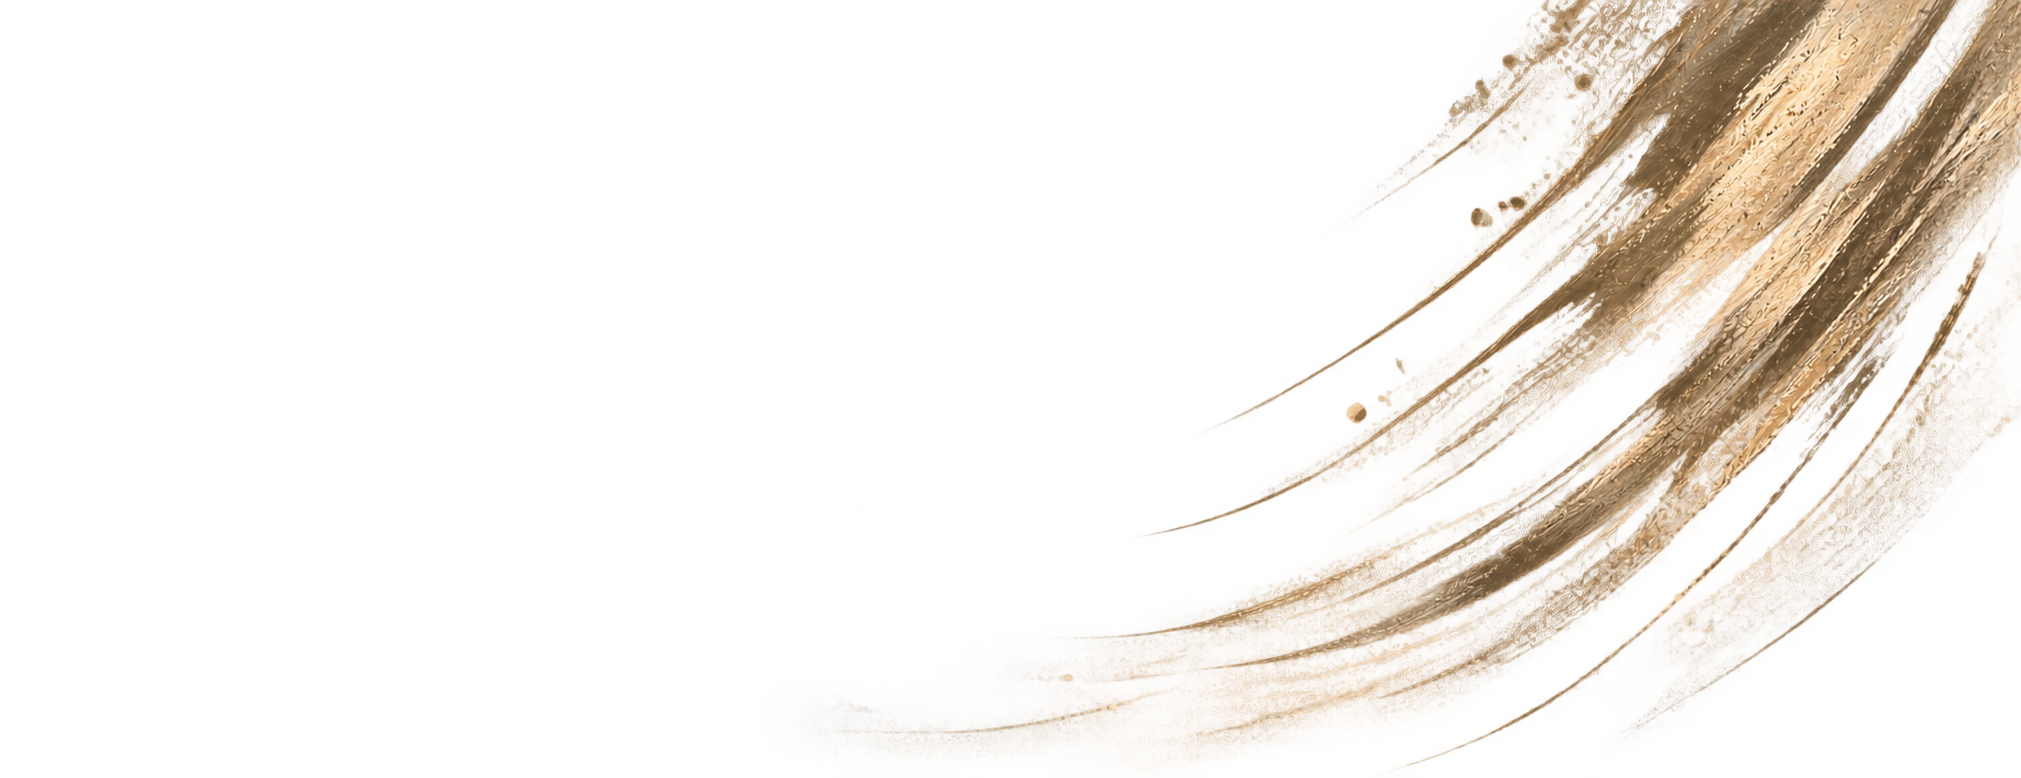
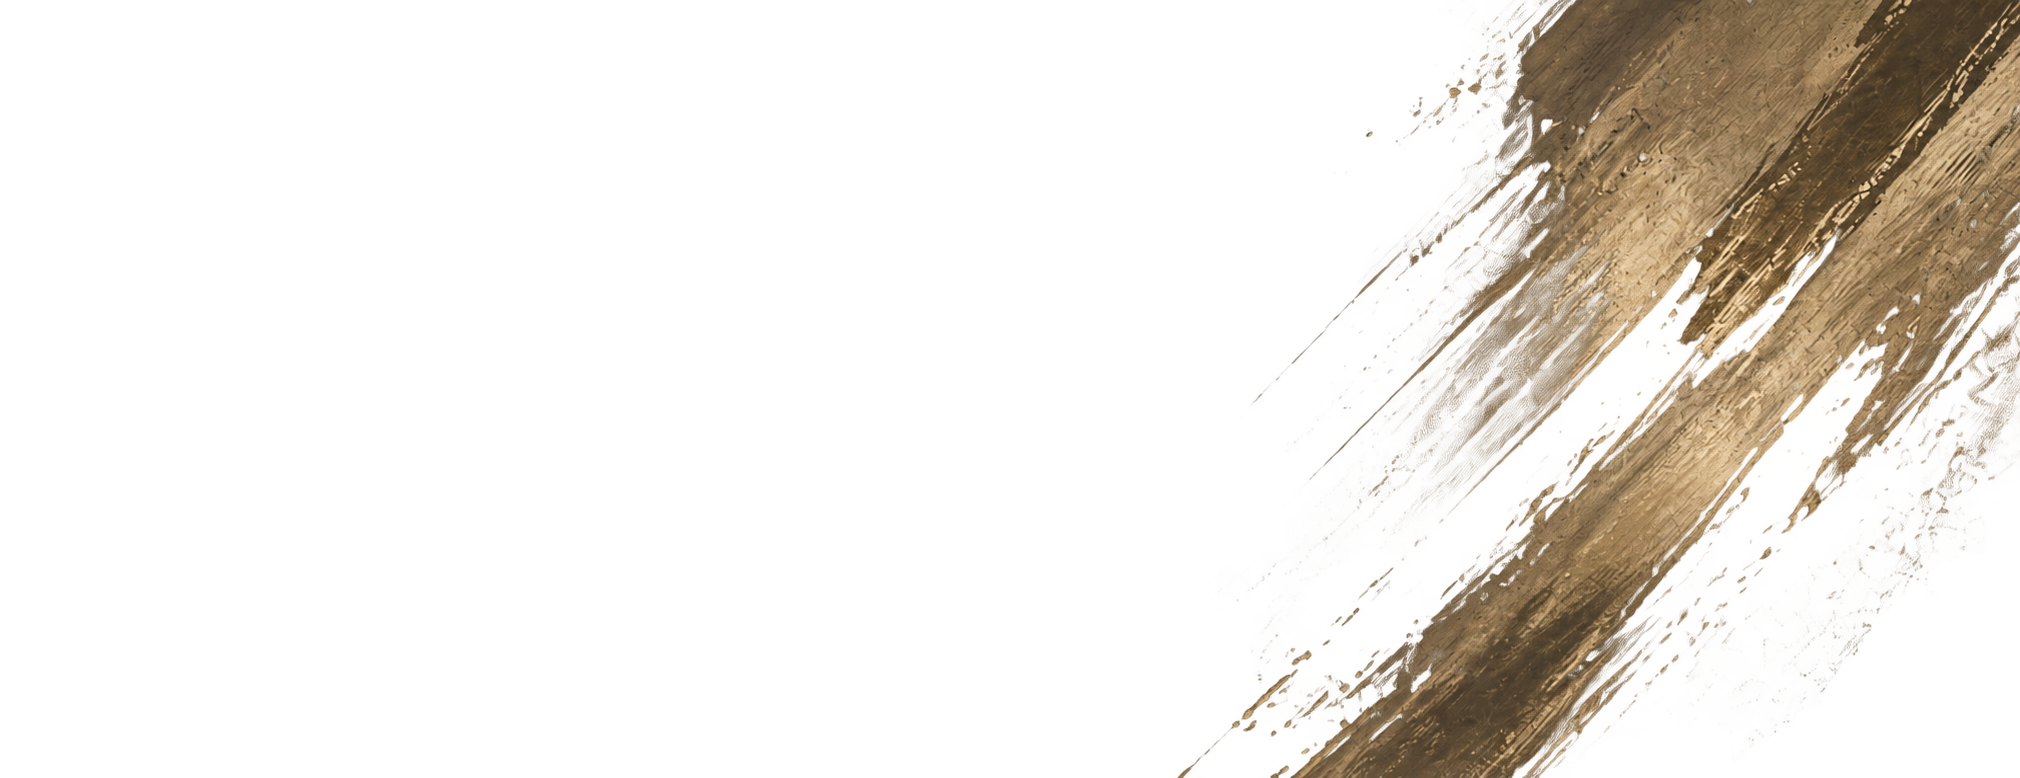
add: project section with ts and scss

diff --git a/src/app/components/projects/projects.scss b/src/app/components/projects/projects.scss
@@ -1,0 +1,203 @@
+// --pad-x: seitlicher Abstand der Section.
+.projects-section {
+    --pad-x: var(--space-5);
+    width: 100%;
+    padding: var(--space-6) var(--pad-x);
+    background-image: url('/assets/imgs/background.png');
+    background-size: cover;
+    background-position: center top;
+    background-repeat: no-repeat;
+}
+
+.projects-inner {
+    display: flex;
+    flex-direction: column;
+    gap: var(--space-5);
+    max-width: var(--content-max-width);
+    margin: 0 auto;
+
+    h2 {
+        font-family: var(--font-heading);
+        font-size: calc(var(--fs-h1) * 1.25);
+        font-weight: 700;
+        color: var(--color-offwhite);
+        line-height: 1.15;
+    }
+}
+
+.projects-list {
+    display: flex;
+    flex-direction: column;
+    gap: var(--space-6);
+}
+
+// Bild und Info nebeneinander, Info vertikal mittig zum Bild.
+// Jede zweite Reihe dreht die Reihenfolge um (Info links / Bild rechts).
+.project_row {
+    display: flex;
+    align-items: center;
+    gap: var(--space-6);
+
+    &:nth-child(even) {
+        flex-direction: row-reverse;
+    }
+}
+
+// Alle Bilder exakt gleich groß: feste Breite (per clamp) und festes Format 16:10
+// → bei 560px Breite 350px hoch. object-fit: cover füllt den Rahmen ohne Verzerrung,
+// überstehende Ränder werden minimal abgeschnitten.
+// Eckenradius wie bei join.png: 5 % der Breite / 8 % der Höhe (= 28px bei 560 × 350).
+.project_image {
+    flex: 0 0 auto;
+
+    img {
+        display: block;
+        width: clamp(280px, 40vw, 560px);
+        aspect-ratio: 16 / 10;
+        object-fit: cover;
+        object-position: center;
+        border-radius: 5% / 8%;
+        transition: filter 0.3s;
+    }
+}
+
+// Hover: Bild ist vorher leicht gedämpft und leuchtet beim ersten Drüberfahren
+// (oder Tab-Fokus auf die Buttons) in voller Farbe auf. Danach setzt projects.ts
+// die Klasse .is-lit auf die Reihe – das Bild bleibt dauerhaft farbig.
+// Nur auf Geräten mit Maus – auf Touch-Geräten sind die Bilder immer farbig.
+@media (hover: hover) {
+    .project_image img {
+        filter: grayscale(0.75) brightness(0.55);
+    }
+
+    .project_row.is-lit .project_image img {
+        filter: none;
+    }
+}
+
+.project_info {
+    flex: 1 1 0;
+    min-width: 0;
+    display: flex;
+    flex-direction: column;
+    align-items: flex-start;
+    gap: var(--space-3);
+}
+
+.project_title {
+    font-family: var(--font-heading);
+    font-size: calc(var(--fs-h1) * 1.15);
+    font-weight: 700;
+    color: var(--color-gold);
+}
+
+.project_tags {
+    display: flex;
+    flex-wrap: wrap;
+    gap: var(--space-1);
+    padding: 0;
+    list-style: none;
+
+    li {
+        padding: 6px var(--space-2);
+        border: 1px solid rgba(var(--color-gold-rgb), 0.4);
+        border-radius: 999px;
+        font-family: var(--font-body);
+        font-size: calc(var(--fs-small) + 3px); 
+        color: var(--color-offwhite);
+    }
+}
+
+.project_desc {
+    max-width: 520px;
+    font-family: var(--font-body);
+    font-size: calc(var(--fs-body) + 3px);
+    line-height: 1.6;
+    color: var(--color-offwhite);
+    opacity: 0.85;
+}
+
+.project_links {
+    display: flex;
+    flex-wrap: wrap;
+    gap: var(--space-2);
+    margin-top: var(--space-1);
+}
+
+.project_btn {
+    display: inline-block;
+    min-width: 160px;
+    padding: 14px var(--space-4);
+    border: 2px solid var(--color-gold);
+    border-radius: var(--radius-sm);
+    background: transparent;
+    color: var(--color-gold);
+    font-family: var(--font-body);
+    font-weight: 700;
+    font-size: var(--fs-h3);
+    text-align: center;
+    text-decoration: none;
+    transition: transform 0.2s, box-shadow 0.2s;
+
+    &:hover {
+        transform: translateY(-4px) scale(1.05);
+        box-shadow: 0 10px 24px rgba(var(--color-gold-rgb), 0.35);
+    }
+
+    &:focus-visible {
+        outline: 2px solid var(--color-gold);
+        outline-offset: 4px;
+    }
+
+    &--filled {
+        background: var(--color-gold);
+        color: var(--color-espresso);
+    }
+}
+
+.accent {
+    color: var(--color-gold);
+}
+
+// Tablet/Mobile: eine Spalte, immer Bild oben, Info darunter.
+@media (max-width: 900px) {
+    .projects-section {
+        padding-top: var(--space-5);
+        padding-bottom: var(--space-5);
+    }
+
+    .projects-list {
+        gap: var(--space-5);
+    }
+
+    .project_row,
+    .project_row:nth-child(even) {
+        flex-direction: column;
+        align-items: stretch;
+        gap: var(--space-3);
+    }
+
+    // Eine Spalte: Bild nimmt die volle Breite, höchstens 560px.
+    .project_image img {
+        width: min(100%, 560px);
+    }
+}
+
+@media (max-width: 768px) {
+    .projects-section {
+        --pad-x: var(--space-4);
+    }
+}
+
+// Sehr schmal (bis 320px): Buttons teilen sich die Breite, solange sie nebeneinander passen.
+@media (max-width: 400px) {
+    .projects-section {
+        --pad-x: var(--space-2);
+    }
+
+    .project_btn {
+        flex: 1 1 0;
+        min-width: 120px;
+        padding: 12px var(--space-2);
+    }
+}

diff --git a/src/app/app.scss b/src/app/app.scss
@@ -9,18 +9,18 @@
   background-position: center top;
   background-repeat: no-repeat;
 
-  // Goldener Brush als eigene dekorative Ebene oben rechts.
-  // Größe nur über die Breite, Höhe ergibt sich aus dem Seitenverhältnis –
-  // unabhängig von der Hero-Höhe. Header (z-index 10) und Hero (z-index 1) liegen darüber.
+  // Goldener Brush (gold_1) als eigene dekorative Ebene oben rechts.
+  // Die Ebene füllt die ganze Hero-Section (mind. 100vh, reicht bis zur About-Me-Section),
+  // das Bild wird auf die volle Höhe skaliert und rechts ausgerichtet.
+  // Die Section selbst ist nicht begrenzt – der Hintergrund darf über 1440px hinaus wachsen,
+  // nur der Inhalt (Header/Hero) ist über --content-max-width auf 1440px begrenzt.
+  // Header (z-index 10) und Hero (z-index 1) liegen darüber.
   &::before {
     content: '';
     position: absolute;
-    top: 0;
-    right: 0;
+    inset: 0;
     z-index: 0;
-    width: min(52vw, 1000px);
-    aspect-ratio: 1188 / 778; // sichtbarer Brush-Bereich in gold_1.png (links davon ist das Bild leer)
-    background: url('/assets/imgs/gold__.png') right top / auto 100% no-repeat;
+    background: url('/assets/imgs/gold_1.png') right top / auto 100% no-repeat;
     pointer-events: none;
   }
 
@@ -34,19 +34,15 @@
   }
 }
 
-// Unter 1440px wächst bzw. schrumpft der Brush stufenlos mit (px-Anteil + vw-Anteil):
-// 1440px → 749px breit (wie 52vw), 1024px → ca. 614px, 769px → ca. 531px.
-// So bleibt er auf Tablets rechts und der Textbereich frei.
-@media (max-width: 1440px) {
-  .hero-section::before {
-    width: calc(32.5vw + 281px);
-  }
-}
-
-// Mobile: Inhalt steht untereinander – Brush größer, läuft hinter dem Foto-Kreis aus.
-// Ebenfalls stufenlos: 768px → ca. 715px breit, 320px → ca. 345px.
+// Tablet/Mobile: gold_1 wird durch gold_4 ersetzt, links oben in der Ecke.
+// Die Ebene ist genau so groß wie der sichtbare Brush in gold_4.png (449 × 509 px von 2048 × 736),
+// daher aspect-ratio 449 / 509 und Bildhöhe 736 / 509 ≈ 144.6 % der Ebene.
+// Breite stufenlos: 320px → 224px, ab ca. 686px max. 480px.
 @media (max-width: 768px) {
   .hero-section::before {
-    width: calc(82vw + 85px);
+    inset: 0 auto auto 0;
+    width: clamp(200px, 70vw, 480px);
+    aspect-ratio: 449 / 509;
+    background: url('/assets/imgs/gold_4.png') left top / auto 144.6% no-repeat;
   }
 }

diff --git a/src/app/components/projects/projects.html b/src/app/components/projects/projects.html
@@ -1,1 +1,31 @@
-<p>projects works!</p>
+<section class="projects-section">
+  <section class="projects-inner">
+    <h2>{{ 'PROJECTS.TITLE' | translate }} <span class="accent">{{ 'PROJECTS.TITLE_ACCENT' | translate }}</span></h2>
+
+    <section class="projects-list">
+      @for (project of projects; track project.title) {
+        <article class="project_row" (mouseenter)="light(project.title)" [class.is-lit]="litProjects.has(project.title)" (focusin)="light(project.title)">
+          <div class="project_image">
+            <img [src]="project.image" [alt]="project.title" />
+          </div>
+
+          <div class="project_info">
+            <h3 class="project_title">{{ project.title }}</h3>
+            <ul class="project_tags">
+              @for (tag of project.tags; track tag) {
+                <li>{{ tag }}</li>
+              }
+            </ul>
+            <p class="project_desc">{{ project.description | translate }}</p>
+            <div class="project_links">
+              <a class="project_btn project_btn--filled" [href]="project.github" target="_blank" rel="noopener">GitHub</a>
+              <a class="project_btn" [href]="project.live" target="_blank" rel="noopener">Live Test</a>
+            </div>
+          </div>
+        </article>
+      }
+    </section>
+  </section>
+</section>
+
+<hr class="section-divider" />

diff --git a/src/app/components/projects/projects.ts b/src/app/components/projects/projects.ts
@@ -1,9 +1,46 @@
 import { Component } from '@angular/core';
+import { TranslatePipe } from '@ngx-translate/core';
 
 @Component({
-  imports: [],
+  imports: [TranslatePipe],
   selector: 'app-projects',
   styleUrl: './projects.scss',
   templateUrl: './projects.html',
 })
-export class Projects {}
+export class Projects {
+  // github/live: Platzhalter – echte Links werden später eingesetzt
+  projects = [
+    {
+      title: 'Join',
+      image: '/assets/imgs/join.png',
+      tags: ['Angular', 'TypeScript', 'Firebase'],
+      description: 'PROJECTS.JOIN_DESC',
+      github: '#',
+      live: '#',
+    },
+    {
+      title: 'El Pollo Loco',
+      image: '/assets/imgs/el_pollo_loco.png',
+      tags: ['JavaScript', 'HTML', 'CSS'],
+      description: 'PROJECTS.POLLO_DESC',
+      github: '#',
+      live: '#',
+    },
+    {
+      title: 'Memory',
+      image: '/assets/imgs/memory.png',
+      tags: ['JavaScript', 'HTML', 'CSS'],
+      description: 'PROJECTS.MEMORY_DESC',
+      github: '#',
+      live: '#',
+    },
+
+  ];
+
+  // Projekte, deren Bild schon einmal gehovert wurde – bleiben danach farbig
+  litProjects = new Set<string>();
+
+  light(title: string) {
+    this.litProjects.add(title);
+  }
+}
